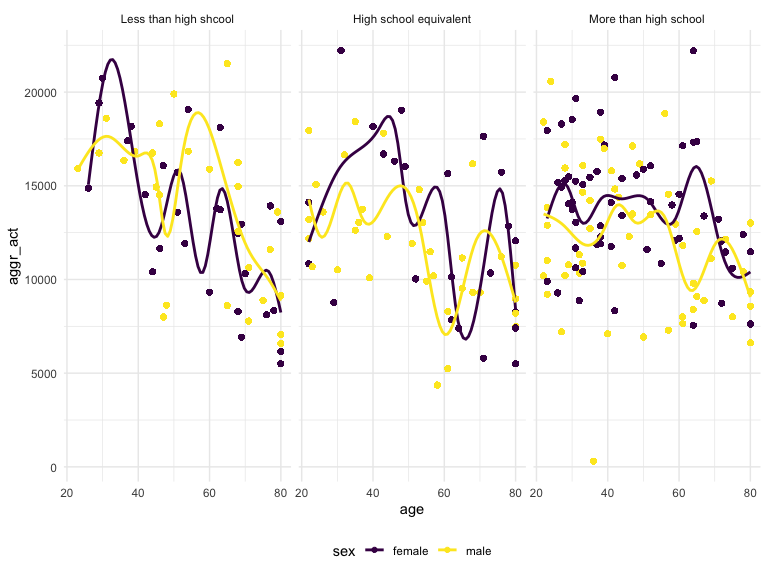
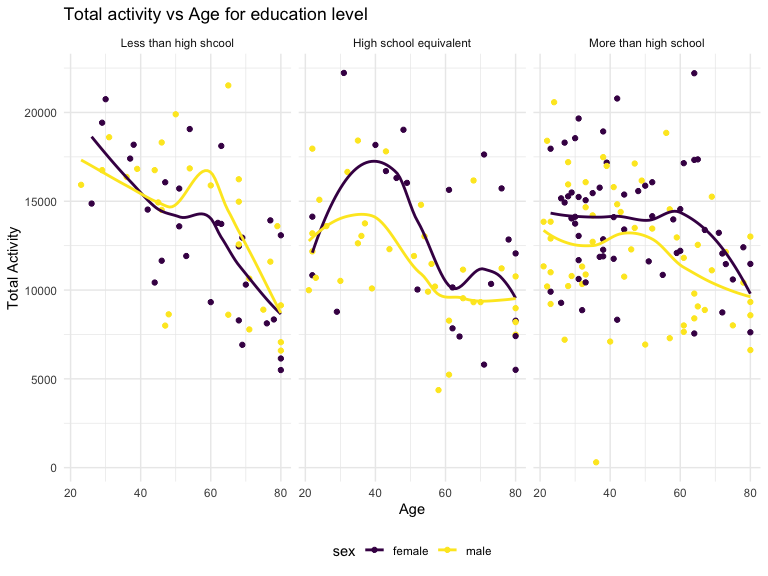
fix all issues.

diff --git a/p8105_hw3_zl2746.md b/p8105_hw3_zl2746.md
@@ -151,53 +151,48 @@ brfss_smart |>
   filter(year == "2002") |>
   group_by(year,state) |>
   count(state) |> 
-  filter(n >= 7) |> #view()
-  pivot_wider(
-    names_from = year, 
-    values_from = state) |>
+  mutate(n = as.integer(n/5)) |>
+  filter(n >= 7) |> 
   knitr::kable()
 ```
 
-|   n | 2002                                   |
-|----:|:---------------------------------------|
-|  10 | AZ, ID, IN, ME, MO, NV, SD, TN, TX     |
-|  20 | CO, HI, MI, MN, OH, RI, WA             |
-|  35 | CT, FL, NC                             |
-|  15 | DE, GA, IL, KS, LA, NE, OK, OR, SC, VT |
-|  40 | MA, NJ                                 |
-|  30 | MD                                     |
-|  25 | NH, NY, UT                             |
-|  50 | PA                                     |
+| year | state |   n |
+|-----:|:------|----:|
+| 2002 | CT    |   7 |
+| 2002 | FL    |   7 |
+| 2002 | MA    |   8 |
+| 2002 | NC    |   7 |
+| 2002 | NJ    |   8 |
+| 2002 | PA    |  10 |
 
 In 2010,
 
 ``` r
 brfss_smart |>
+  filter(year == "2010") |>
   group_by(year,state) |>
   count(state) |>
+  mutate(n = as.integer(n/5)) |>
   filter(n >= 7) |>
-  filter(year == "2010") |>
-  pivot_wider(
-    names_from = year, 
-    values_from = state) |>
   knitr::kable()
 ```
 
-|   n | 2010                               |
-|----:|:-----------------------------------|
-|  15 | AL, AR, AZ, DE, IN, MO, MT, ND, OK |
-|  60 | CA, MD, NC                         |
-|  35 | CO, PA, SC                         |
-|  25 | CT, LA, MN, NH, RI, TN             |
-| 205 | FL                                 |
-|  20 | GA, HI, KS, MI, OR                 |
-|  10 | IA, IL, MS, NV, SD, WY             |
-|  30 | ID, ME, NM, UT, VT                 |
-|  45 | MA, NY                             |
-|  50 | NE, WA                             |
-|  95 | NJ                                 |
-|  40 | OH                                 |
-|  80 | TX                                 |
+| year | state |   n |
+|-----:|:------|----:|
+| 2010 | CA    |  12 |
+| 2010 | CO    |   7 |
+| 2010 | FL    |  41 |
+| 2010 | MA    |   9 |
+| 2010 | MD    |  12 |
+| 2010 | NC    |  12 |
+| 2010 | NE    |  10 |
+| 2010 | NJ    |  19 |
+| 2010 | NY    |   9 |
+| 2010 | OH    |   8 |
+| 2010 | PA    |   7 |
+| 2010 | SC    |   7 |
+| 2010 | TX    |  16 |
+| 2010 | WA    |  10 |
 
 ### Construct a dataset that is limited to `Excellent` responses, and contains, year, state, and a variable that averages the `data_value` across locations within a state. Make a “spaghetti” plot of this average value over time within a state (that is, make a plot showing a line for each state across years – the `geom_line` geometry and `group` aesthetic will help).
 
@@ -206,7 +201,7 @@ brfss_smart |>
   filter(response == "Excellent") |>
   group_by(state,year) |>
   summarize(mean_datavalue = mean(data_value)) |> 
-  ggplot(aes(x = year, y = mean_datavalue, group = state, color = state)) + 
+  ggplot(aes(x = year, y = mean_datavalue, color = state, group = state)) + 
   geom_line() + 
   labs(
     title = "Time vs Mean Data Value",
@@ -254,7 +249,7 @@ brfss_smart |>
 nhanes_covar = 
   read_csv("nhanes_covar.csv",skip = 4) |>
   janitor::clean_names() |>
-  filter(age > 21) |>
+  filter(age >= 21) |>
   mutate(
     sex = recode(sex, "1" = "male", "2" = "female"),
     education = recode(
@@ -317,24 +312,37 @@ nhanes_df |>
 | education              | female | male |
 |:-----------------------|-------:|-----:|
 | Less than high shcool  |     28 |   27 |
-| High school equivalent |     23 |   34 |
-| More than high school  |     59 |   54 |
+| High school equivalent |     23 |   35 |
+| More than high school  |     59 |   56 |
 
 ``` r
 nhanes_df |>
-  ggplot(aes(x = age, y = education, color = sex)) +
+  ggplot(aes(y = age, x = education, color = sex)) +
   geom_boxplot() +
   facet_grid(. ~ sex) +
   labs(
     title = "Age Distribution for Sex in Education Category",
-    x = "Age",
-    y = "Education"
+    y = "Age",
+    x = "Education"
   )
 ```
 
 <img src="p8105_hw3_zl2746_files/figure-gfm/unnamed-chunk-10-1.png" width="90%" />
 
-Comment on these items.
+Comment on these items:
+
+For only female, less than high school and high school equivalent has
+similar median age around 60-year old, where high school equivalent has
+larger range from about 20 years to 75 years. More than high school
+category has the lowest age median at 40-year old.
+
+For only male, less than high school has the highest median age at 60
+years old. And high school equivalent has median age around 55-years
+old. More than high school category has the lowest age median at 45-year
+old.
+
+Overall, female has higher age in the category of high school and more
+than high school than male.
 
 ### Using your tidied dataset, aggregate across minutes to create a total activity variable for each participant. Plot these total activities (y-axis) against age (x-axis); your plot should compare men to women and have separate panels for each education level. Include a trend line or a smooth to illustrate differences.
 
@@ -342,17 +350,35 @@ Comment on these items.
 nhanes_df |>
   group_by(seqn) |>
   mutate(aggr_act = sum(MIMS_Value)) |>
+  filter(minutes == "min1") |>
   ggplot(aes(x = age, y = aggr_act, color = sex)) +
   geom_point() +
   geom_smooth(se = FALSE) +
-  facet_grid(. ~ education)
+  facet_grid(. ~ education) +
+  labs(
+    title = "Total activity vs Age for education level",
+    x = "Age",
+    y = "Total Activity"
+  )
 ```
 
-    ## `geom_smooth()` using method = 'gam' and formula = 'y ~ s(x, bs = "cs")'
+    ## `geom_smooth()` using method = 'loess' and formula = 'y ~ x'
 
 <img src="p8105_hw3_zl2746_files/figure-gfm/unnamed-chunk-11-1.png" width="90%" />
 
-Comment on your plot.
+Comment on your plot:
+
+The total activity decreases as the age increases for both men and women
+in all education levels.
+
+For less than high school, female has greater total activity before 40
+years old.
+
+For high school equivalent education, female has lower total activity
+before 35 years old.
+
+For more than high school, female has greater total activity all the
+time, but get closer to male’s at the end (80 years old).
 
 ### Accelerometer data allows the inspection activity over the course of the day. Make a three-panel plot that shows the 24-hour activity time courses for each education level and use color to indicate sex. Describe in words any patterns or conclusions you can make based on this graph; including smooth trends may help identify differences.
 
